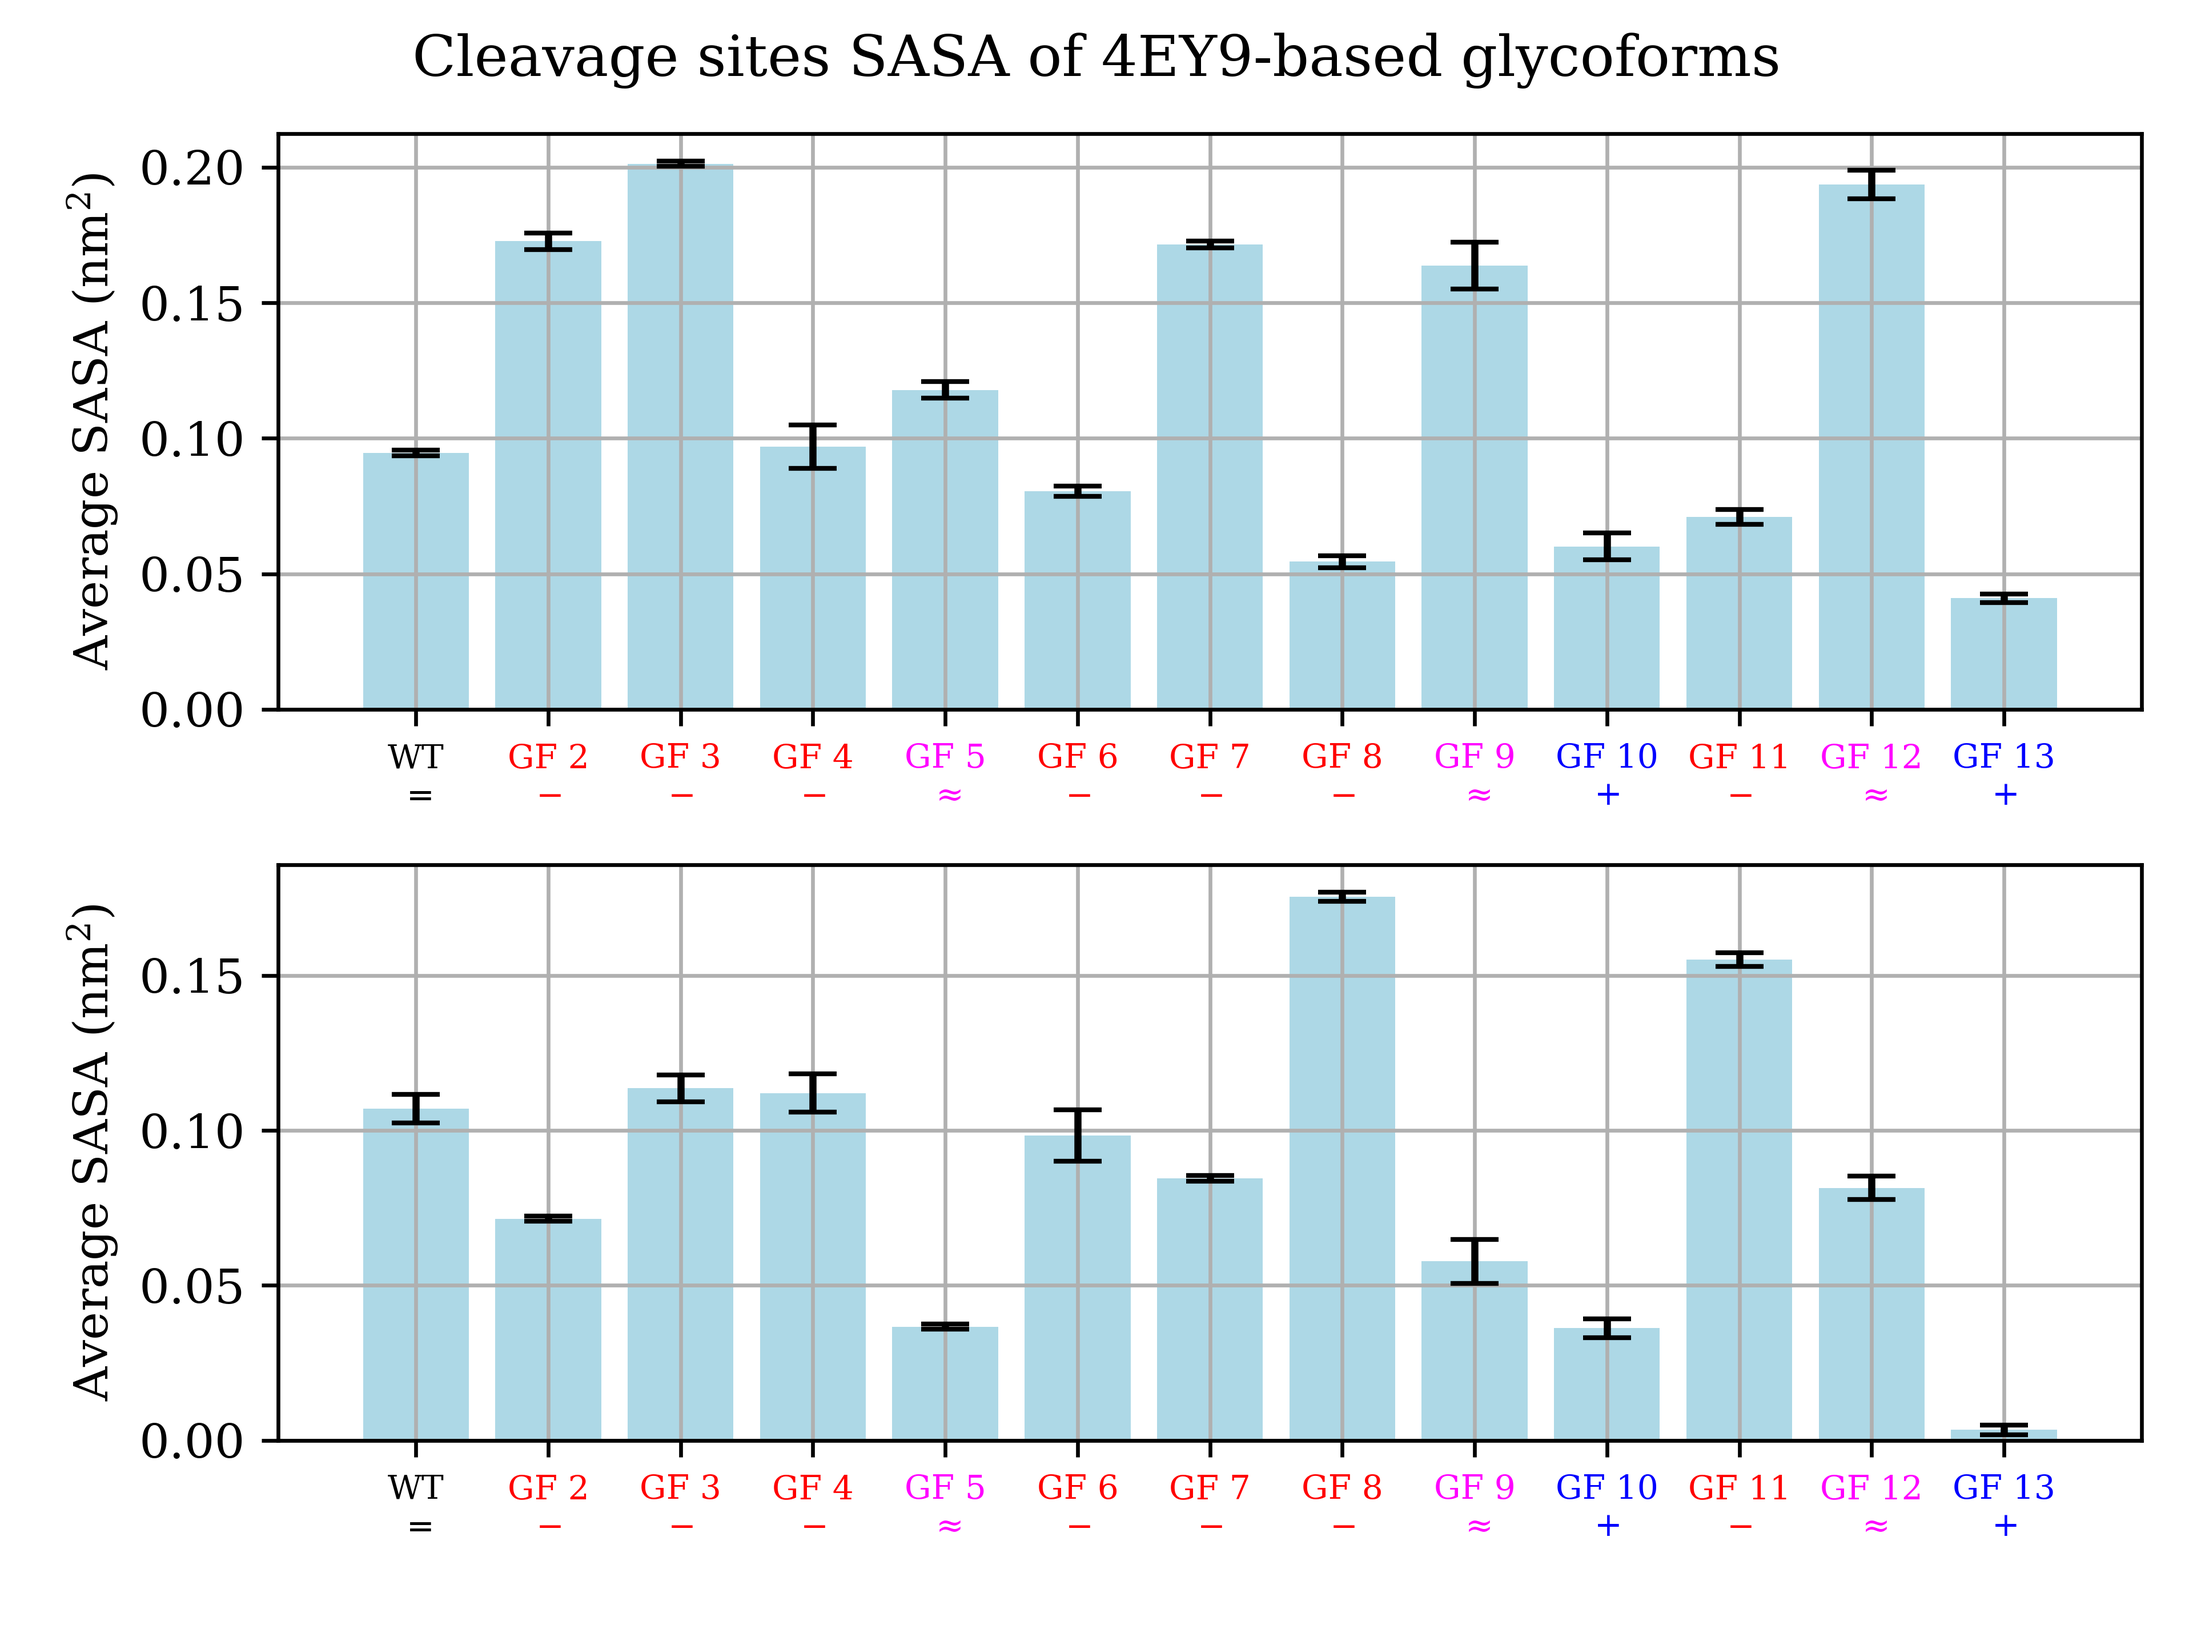
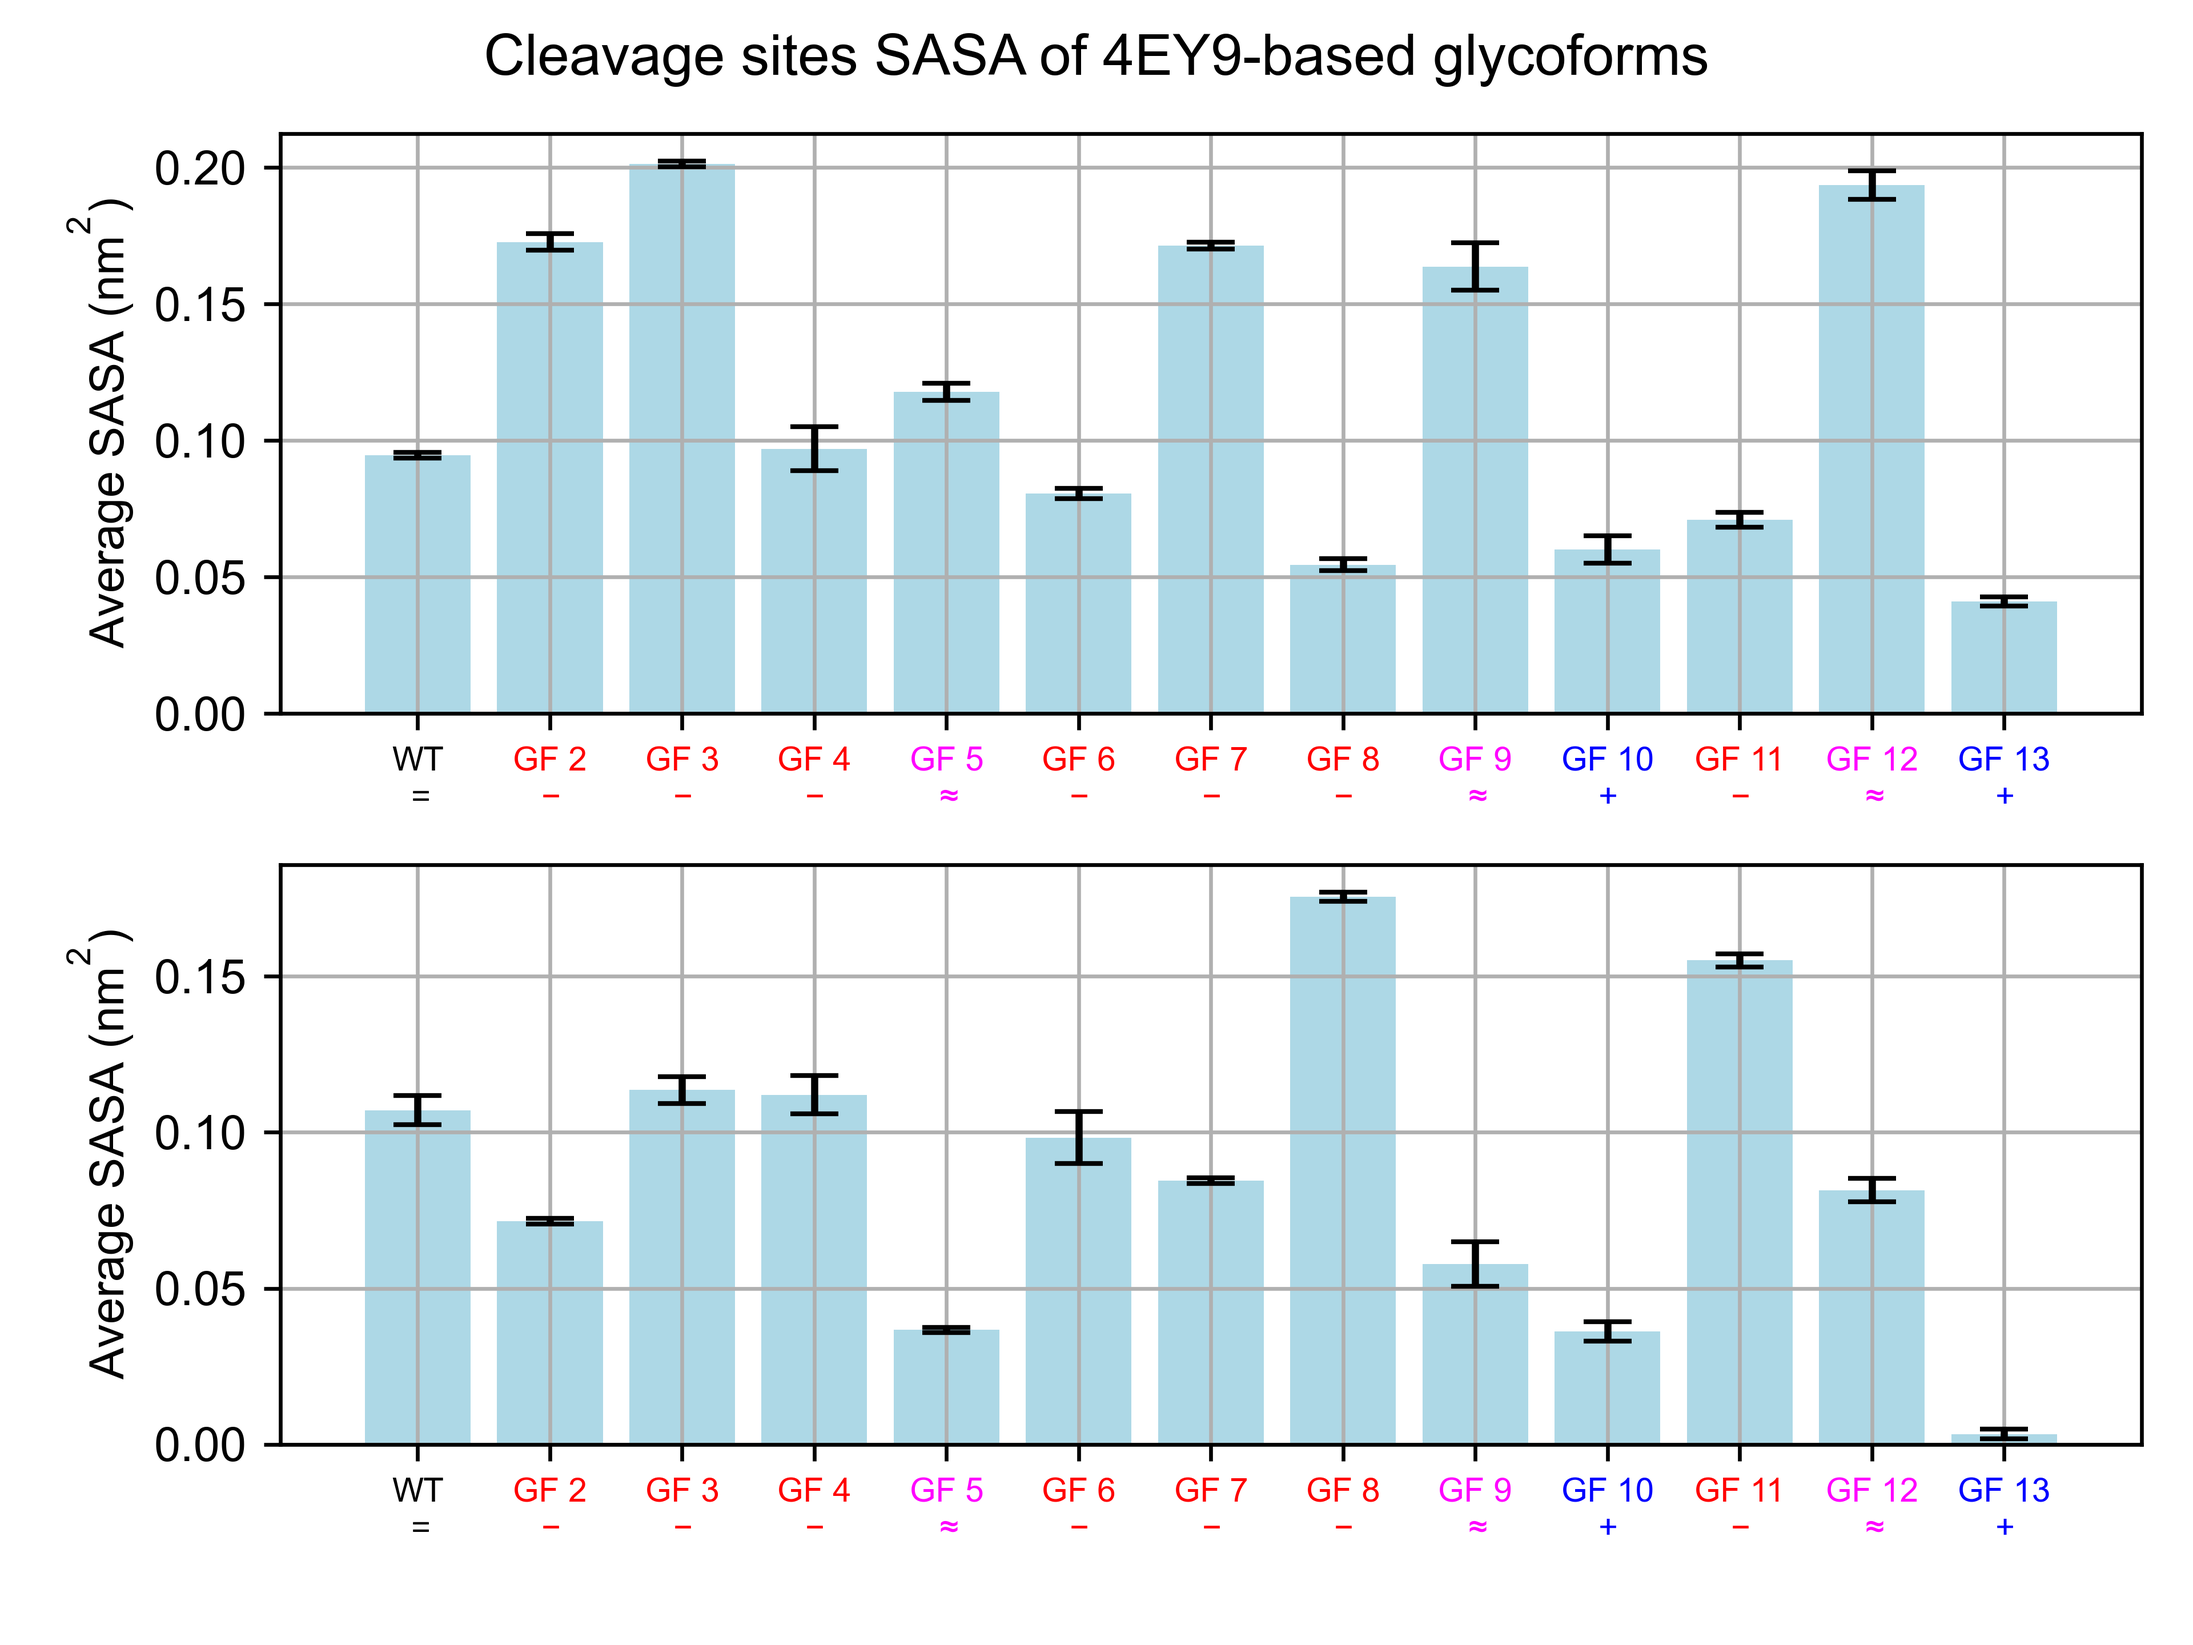
Tweaked the figures of Metric 1 and Metric 2

diff --git a/analysis_results/proteolytic_stability/Metric_1/plot_PB_SASA.py b/analysis_results/proteolytic_stability/Metric_1/plot_PB_SASA.py
@@ -40,7 +40,7 @@ if __name__ == "__main__":
     rc("font", **{"family": "sans-serif", "sans-serif": ["DejaVu Sans"], "size": 10})
     # Set the font used for MathJax - more on this later
     rc("mathtext", **{"default": "regular"})
-    plt.rc("font", family="serif")
+    plt.rc("font", family="Arial")
 
     folders = ["4EYD", "4EY9", "4EY1", "3I3Z", "2MVC"]
     res = ["B25", "B26"]
@@ -134,17 +134,17 @@ if __name__ == "__main__":
     # SASA relative to the WT
     x = np.arange(13)
 
-    fig = plt.figure(figsize=(12, 8))
+    fig = plt.figure(figsize=(8, 8))
     ax = fig.add_subplot(2, 1, 1)
     plt.bar(
         x,
         B25_avg - B25_avg[0],
-        width=0.5,
+        width=0.4,
         yerr=np.sqrt(np.power(B25_std, 2) + B25_std[0] ** 2),
         capsize=3,
     )
-    plt.ylabel("Average SASA of B25 (nm$^{2}$)", fontsize=14)
-    plt.xticks(np.arange(len(labels)), tuple(labels), fontsize=15)
+    plt.ylabel("SASA of B25-B26 scissile bond (nm$^{2}$)", fontsize=14)
+    plt.xticks(np.arange(len(labels)), tuple(labels), fontsize=12)
     plt.xlim([x[0] - 0.8, x[-1] + 0.8])
     plt.ylim([-0.09, 0.04])
     plt.fill_between([x[0] - 0.8, x[-1] + 0.8], 0.04, color='cyan', alpha=0.8)
@@ -157,12 +157,12 @@ if __name__ == "__main__":
     plt.bar(
         x,
         B26_avg - B26_avg[0],
-        width=0.5,
+        width=0.4,
         yerr=np.sqrt(np.power(B26_std, 2) + B26_std[0] ** 2),
         capsize=3,
     )
-    plt.ylabel("Average SASA of B26 (nm$^{2}$)", fontsize=14)
-    plt.xticks(np.arange(len(labels)), tuple(labels), fontsize=15)
+    plt.ylabel("SASA of B26-B27 scissile bond (nm$^{2}$)", fontsize=14)
+    plt.xticks(np.arange(len(labels)), tuple(labels), fontsize=12)
     plt.xlim([x[0] - 0.8, x[-1] + 0.8])
     plt.ylim([-0.12, 0.04])
     plt.fill_between([x[0] - 0.8, x[-1] + 0.8], 0.04, color='cyan', alpha=0.8)
@@ -172,7 +172,7 @@ if __name__ == "__main__":
         tick.label1.set_color(color)
 
     plt.tight_layout(rect=[0, 0.03, 1, 0.95])
-    plt.suptitle('Average SASA of B25 and B26 peptide bonds compared to WT', weight='bold', fontsize=18)
+    plt.suptitle('Average SASA of scissile bond compared to WT', weight='bold', fontsize=15)
     plt.savefig("sasa_PB_all.png", dpi=600)
 
     t2 = time.time()

diff --git a/analysis_results/proteolytic_stability/Metric_2/plot_res_SASA.py b/analysis_results/proteolytic_stability/Metric_2/plot_res_SASA.py
@@ -40,7 +40,7 @@ if __name__ == "__main__":
     rc("font", **{"family": "sans-serif", "sans-serif": ["DejaVu Sans"], "size": 10})
     # Set the font used for MathJax - more on this later
     rc("mathtext", **{"default": "regular"})
-    plt.rc("font", family="serif")
+    plt.rc("font", family="Arial")
 
     folders = ["4EYD", "4EY9", "4EY1", "3I3Z", "2MVC"]
     res = ["B24", "B25"]
@@ -134,17 +134,17 @@ if __name__ == "__main__":
     # SASA relative to the WT
     x = np.arange(13)
 
-    fig = plt.figure(figsize=(12, 8))
+    fig = plt.figure(figsize=(8, 8))
     ax = fig.add_subplot(2, 1, 1)
     plt.bar(
         x,
         B24_avg - B24_avg[0],
-        width=0.5,
+        width=0.4,
         yerr=np.sqrt(np.power(B24_std, 2) + B24_std[0] ** 2),
         capsize=3,
     )
-    plt.ylabel("Average SASA of B24 (nm$^{2}$)", fontsize=14)
-    plt.xticks(np.arange(len(labels)), tuple(labels), fontsize=15)
+    plt.ylabel("SASA of residue B24 (nm$^{2}$)", fontsize=14)
+    plt.xticks(np.arange(len(labels)), tuple(labels), fontsize=10)
     plt.xlim([x[0] - 0.8, x[-1] + 0.8])
     plt.ylim([-0.5, 0.1])
     plt.fill_between([x[0] - 0.8, x[-1] + 0.8], 0.1, color='cyan', alpha=0.8)
@@ -157,12 +157,12 @@ if __name__ == "__main__":
     plt.bar(
         x,
         B25_avg - B25_avg[0],
-        width=0.5,
+        width=0.4,
         yerr=np.sqrt(np.power(B25_std, 2) + B25_std[0] ** 2),
         capsize=3,
     )
-    plt.ylabel("Average SASA of B25 (nm$^{2}$)", fontsize=14)
-    plt.xticks(np.arange(len(labels)), tuple(labels), fontsize=15)
+    plt.ylabel("SASA of residue B25 (nm$^{2}$)", fontsize=14)
+    plt.xticks(np.arange(len(labels)), tuple(labels), fontsize=10)
     plt.xlim([x[0] - 0.8, x[-1] + 0.8])
     plt.ylim([-0.45, 0.1])
     plt.fill_between([x[0] - 0.8, x[-1] + 0.8], 0.1, color='cyan', alpha=0.8)
@@ -172,7 +172,7 @@ if __name__ == "__main__":
         tick.label1.set_color(color)
 
     plt.tight_layout(rect=[0, 0.03, 1, 0.95])
-    plt.suptitle('Average SASA of B24 and B25 residues compared to WT', weight='bold', fontsize=18)
+    plt.suptitle('Average SASA of the P1 site compared to WT', weight='bold', fontsize=15)
     plt.savefig("sasa_res_all.png", dpi=600)
 
     t2 = time.time()
